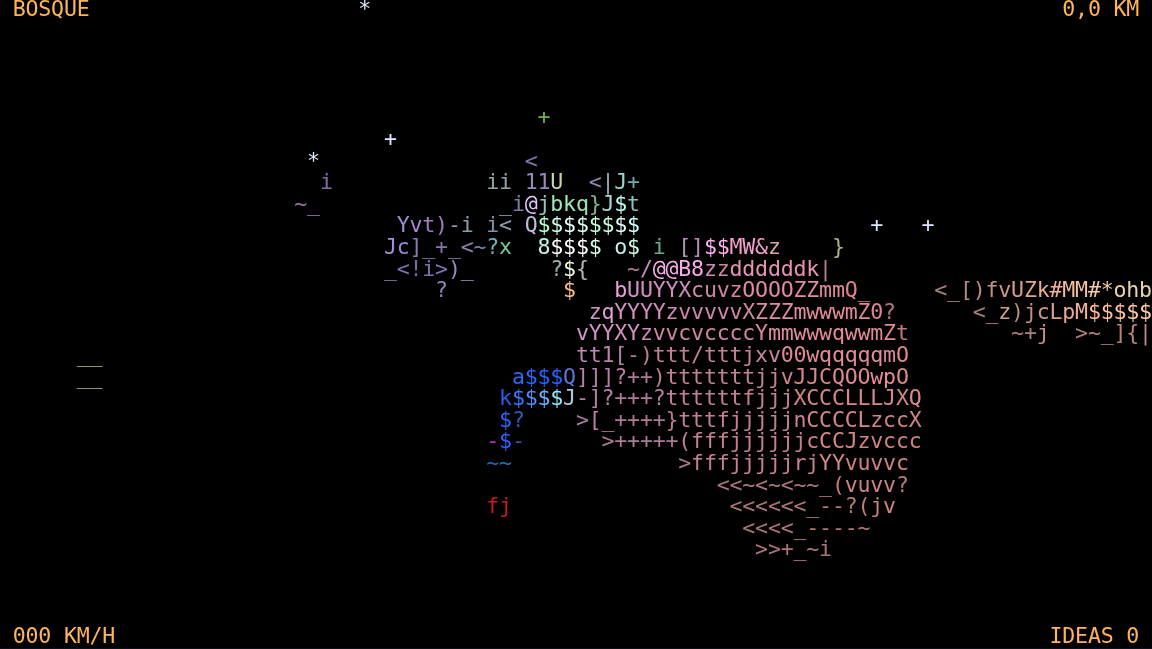
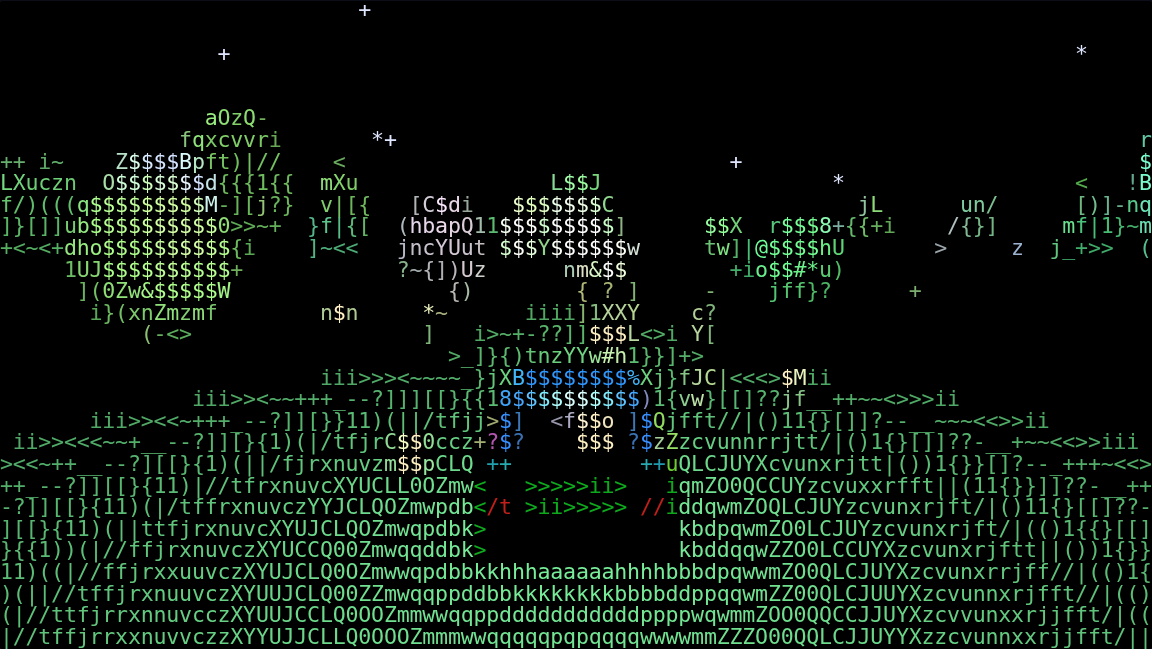
milangagalactica: Deriva con capacidad de luz que crece y zonas más iluminadas
Cada orbe agranda para siempre la luz que se puede cargar (se guarda en el
navegador): faros más largos, aura más amplia, más tiempo antes del limbo.
Alrededor del auto se ven los puntos encendidos y los apagados. Zonas más
luminosas, bosque y plazas verdes, pisos más oscuros para que no tapen, y
sin nombres de zona.

Claude-Session: https://claude.ai/code/session_0185JFrKNAh68tJM7aZFw82D

diff --git a/milangagalactica/deriva.html b/milangagalactica/deriva.html
@@ -345,7 +345,6 @@
   // avenidas, se abre una plaza, llega la playa o se termina todo en la nada.
   const T = { STREET: 1, AVENUE: 2, PLAZA: 3, SAND: 4, VOID: 5, FOREST: 6, WALL: 10, IVY: 11, SEA: 12, MONUMENT: 13 };
   const SOLID = t => t >= 10;
-  const ZONE_NAME = { 1: "LABERINTO", 2: "AVENIDA", 3: "PLAZA", 4: "PLAYA", 5: "LA NADA", 6: "BOSQUE", 10: "LABERINTO", 11: "LABERINTO", 12: "PLAYA", 13: "PLAZA" };
   const mod = (a, n) => ((a % n) + n) % n;
   let seed = 700, sx = 0, sy = 0;
   const hs = (x, y, k) => hash(x + Math.imul(k + 1, 9973) + seed, y + Math.imul(k + 1, 7919) - seed);
@@ -438,7 +437,7 @@
 
   // Bosque: follaje de colores suaves, esferas y haces de luz, como en Abstract Landscapes.
   const leafMat = mat(0xffffff, { flatShading: true, roughness: 0.9, emissive: 0x10141a });
-  const LEAF_COLORS = [0x6fbf8a, 0x9ad0a0, 0xe2a6c8, 0x4f9a7a, 0xc9b6ec, 0x7fc4b8];
+  const LEAF_COLORS = [0x5fbf6a, 0x8fd88a, 0x3f9a5a, 0xb8e07a, 0x6fc4a0, 0xe2a6c8];
   const pearlMat = mat(0xf1eaff, { roughness: 0.18, metalness: 0.35, emissive: 0x3a3258 });
   const moteMat = new THREE.MeshBasicMaterial({ color: 0xfff3b0 });
   const MOTE = new THREE.IcosahedronGeometry(0.09, 0);
@@ -476,7 +475,7 @@
   const CHUNK = 16;
   const chunks = new Map();
   const m4 = new THREE.Matrix4(), q4 = new THREE.Quaternion(), s3 = new THREE.Vector3(), p3 = new THREE.Vector3(), col = new THREE.Color();
-  const FLOOR_COLORS = { 1: 0x55525e, 2: 0x5a5a6e, 3: 0x3c5a3a, 4: 0x9c8f74, 6: 0x2e4a40, 10: 0x55525e, 11: 0x55525e, 13: 0x3c5a3a };
+  const FLOOR_COLORS = { 1: 0x3e3c46, 2: 0x44445a, 3: 0x2f5030, 4: 0x7a705a, 6: 0x264830, 10: 0x3e3c46, 11: 0x3e3c46, 13: 0x2f5030 };
 
   function instanced(geo, material, list, build) {
     if (!list.length) return null;
@@ -717,12 +716,12 @@
   // Cada zona tiene su luz: la playa tiene luna, en la nada no hay nada.
   // [cielo, luna, niebla lejos, color de cielo, color de suelo, color de niebla]
   const ZONE_LIGHT = {
-    1: [0.22, 0.16, 64, 0x9aa4e8, 0x2a2018, 0x000000],
-    2: [0.24, 0.18, 74, 0x9aa4e8, 0x2a2018, 0x000000],
-    3: [0.28, 0.18, 66, 0xa8c0e0, 0x1e2a18, 0x000000],
-    4: [0.42, 0.42, 110, 0x8aa0ff, 0x10121a, 0x000000],
+    1: [0.38, 0.22, 70, 0xa8b0f0, 0x3a2c1e, 0x000000],
+    2: [0.52, 0.3, 90, 0xc0c4ff, 0x3a2c1e, 0x000000],
+    3: [0.62, 0.3, 80, 0xc8f0c0, 0x2a5a24, 0x000000],
+    4: [0.55, 0.5, 120, 0x9ab0ff, 0x1a1c2a, 0x000000],
     5: [0, 0, 200, 0x000000, 0x000000, 0x000000],
-    6: [0.5, 0.22, 70, 0xffb8d8, 0x1f4a3a, 0x1c2544]
+    6: [0.85, 0.35, 80, 0xc8ffc8, 0x2f6a3a, 0x0e2a1a]
   };
   const _c1 = new THREE.Color(), _c2 = new THREE.Color(), _c3 = new THREE.Color();
   function placeWorld(dt) {
@@ -750,15 +749,12 @@
 
   // --- Zonas y mensajes -------------------------------------------------------------------
   let msg = "", msgUntil = 0, clock = 0, currentZone = 1;
-  const announced = {};
   function message(text, secs) { msg = text; msgUntil = clock + secs; }
   function trackZone() {
     const t = cellType(toCell(player.x), toCell(player.z));
     const zone = t === T.SEA ? T.SAND : t === T.MONUMENT ? T.PLAZA : (t === T.WALL || t === T.IVY) ? T.STREET : t;
     if (zone === currentZone) return;
     currentZone = zone;
-    const name = ZONE_NAME[zone];
-    if (!announced[name] || clock - announced[name] > 25) { announced[name] = clock; message(name, 2.4); }
   }
 
   // --- Recorrido ---------------------------------------------------------------------------
@@ -769,25 +765,32 @@
   }
 
   // --- Luz: se junta, se gasta, y sin luz aparece el limbo ------------------------------------
-  let light = 0.45, flash = 0, started = false;
+  // La capacidad crece con cada orbe y queda guardada en este navegador.
+  let cap = 1;
+  try { cap = clamp(parseFloat(localStorage.getItem("deriva-luz")) || 1, 1, 4); } catch (e) { /* sin almacenamiento */ }
+  let light = Math.max(0.45, cap * 0.6), flash = 0, started = false;
   const collected = new Set();
 
-  // La luz que llevás se ve alrededor del auto: puntos que orbitan, más o menos según cuánta quede.
+  // Alrededor del auto orbita tu luz: los puntos encendidos son la que tenés,
+  // los apagados, lo que te falta para llenar tu capacidad.
+  const PER_UNIT = 8, ORBIT_MAX = 32;
+  const emptyMat = new THREE.MeshBasicMaterial({ color: 0x4a4658 });
   const orbit = new THREE.Group();
   scene.add(orbit);
-  const ORBIT_MAX = 18;
   for (let i = 0; i < ORBIT_MAX; i++) {
     const m = new THREE.Mesh(ORB_GEO, orbMat);
-    m.scale.setScalar(0.34);
-    m.userData = { r: 2.6 + (i % 3) * 0.5, h: 1.0 + (i % 4) * 0.45, sp: 0.55 + (i % 5) * 0.13, ph: i * 2.39 };
+    m.scale.setScalar(0.3);
+    const ring = Math.floor(i / 8);
+    m.userData = { r: 2.5 + ring * 0.75 + (i % 2) * 0.2, h: 0.9 + (i % 4) * 0.4 + ring * 0.25, sp: (0.6 + (i % 5) * 0.1) * (ring % 2 ? -1 : 1), ph: i * 2.39 };
     orbit.add(m);
   }
   function placeOrbit() {
     orbit.position.set(player.x, 0, player.z);
-    const n = Math.round(light * ORBIT_MAX);
+    const slots = Math.min(ORBIT_MAX, Math.round(cap * PER_UNIT)), lit = Math.round(light * PER_UNIT);
     orbit.children.forEach((m, i) => {
       const u = m.userData, a = clock * u.sp + u.ph;
-      m.visible = i < n || (i === n && light > 0.01 && Math.sin(clock * 9) > 0);
+      m.visible = i < slots;
+      m.material = i < lit || (i === lit && light > 0.01 && Math.sin(clock * 9) > 0) ? orbMat : emptyMat;
       m.position.set(Math.cos(a) * u.r, u.h + Math.sin(clock * 1.3 + u.ph) * 0.25, Math.sin(a) * u.r);
     });
   }
@@ -799,7 +802,7 @@
     if (currentZone === T.VOID) drain *= 3;
     let lamp = false;
     chunks.forEach(c => c.lamps.forEach(p => { if (!lamp && (p.x - player.x) ** 2 + (p.z - player.z) ** 2 < 7.5 * 7.5) lamp = true; }));
-    light = clamp(light - (started ? drain * dt : 0) + (lamp ? 0.06 * dt : 0), 0, 1);
+    light = clamp(light - (started ? drain * dt : 0) + (lamp ? 0.06 * dt : 0), 0, cap);
     flash = Math.max(0, flash - dt * 2.5);
     chunks.forEach(c => c.ideas.forEach(it => {
       if (it.taken) return;
@@ -810,8 +813,11 @@
       it.taken = true;
       it.mesh.visible = false;
       collected.add(it.key);
-      light = Math.min(1, light + 0.2);
+      // Cada orbe te llena un poco y te deja cargar un poco más de luz para siempre.
+      cap = Math.min(4, cap + 0.125);
+      light = Math.min(cap, light + 0.3);
       flash = 1;
+      try { localStorage.setItem("deriva-luz", String(cap)); } catch (e) { /* sin almacenamiento */ }
     }));
   }
 
@@ -896,8 +902,10 @@
     // Los faros titilan, la cámara respira.
     // Los faros dependen de la luz que te queda; con poca, titilan.
     const flicker = (voidK > 0.1 && Math.random() < 0.05 * voidK) || (light < 0.2 && Math.random() < (0.2 - light) * 0.6) ? 0.12 : 1;
-    headBeams.forEach(b => { b.intensity = 2.3 * flicker * (light < 0.01 ? 0 : 0.12 + 0.88 * light); b.angle = 0.3 + 0.14 * light; });
-    carGlow.intensity = 0.5 + 1.1 * light;
+    const l1 = Math.min(1, light);
+    headBeams.forEach(b => { b.intensity = flicker * (light < 0.01 ? 0 : 2.3 * (0.12 + 0.88 * l1) + 0.35 * (light - l1)); b.angle = 0.3 + 0.14 * l1 + 0.05 * (light - l1); b.distance = 36 + 14 * light; });
+    carGlow.intensity = 0.5 + 1.1 * l1 + 0.3 * (light - l1);
+    carGlow.distance = 9 + 5 * light;
     camera.fov = 56 + (Math.sin(clock * 0.37) * 5 + Math.sin(clock * 1.9) * 0.8) * voidK;
     camera.updateProjectionMatrix();
     // Susurros: frases sueltas que aparecen en cualquier lugar de la grilla.
@@ -994,7 +1002,7 @@
 
   let exposureNow = ADJ.exposure;
   function shade() {
-    exposureNow = ADJ.exposure * (0.72 + 0.28 * light) * (1 + flash * 0.7);
+    exposureNow = ADJ.exposure * (0.72 + 0.28 * Math.min(1, light)) * (1 + flash * 0.7);
     const W = cols * SS, H = rows * SS;
     renderer.setRenderTarget(rt);
     renderer.clear();

diff --git a/milangagalactica/CONCEPTO.md b/milangagalactica/CONCEPTO.md
@@ -194,8 +194,10 @@ Manejar el Arlequín de noche por una ciudad que no se termina, sin destino.
   de la génesis ("it's still there", "ideas occupy place").
 - **Luz:** la economía del juego, porque la luz es lo central de la obra.
   Se gasta al manejar (más rápido en la nada), se junta en orbes y se
-  recarga despacio bajo los faroles, la luz de la gente. La que llevás se
-  ve como puntos que orbitan el auto y en la fuerza de los faros. Sin luz,
+  recarga despacio bajo los faroles, la luz de la gente. Cada orbe agranda
+  para siempre cuánta luz podés cargar: con más luz ves más lejos, alumbrás
+  más alrededor y durás más. La que llevás se ve como puntos que orbitan el
+  auto (encendidos, la que tenés; apagados, lo que te falta). Sin luz,
   el limbo llega a cualquier lado: aparecen los ojos aunque estés en la
   ciudad.
 - **Sin explicaciones:** nada de textos ni contadores. El arranque enseña:
